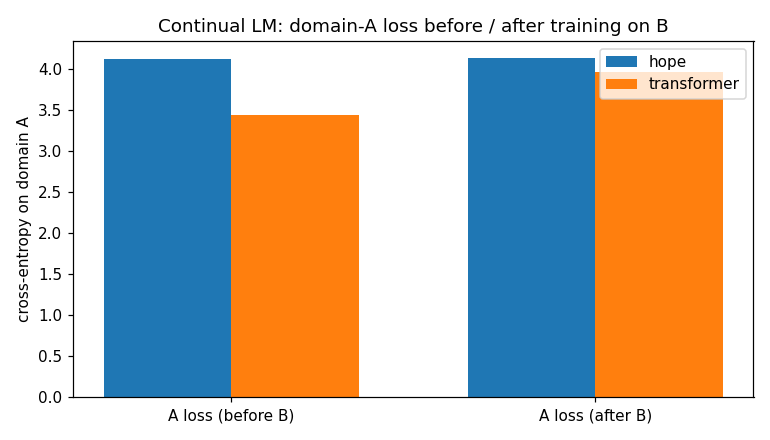
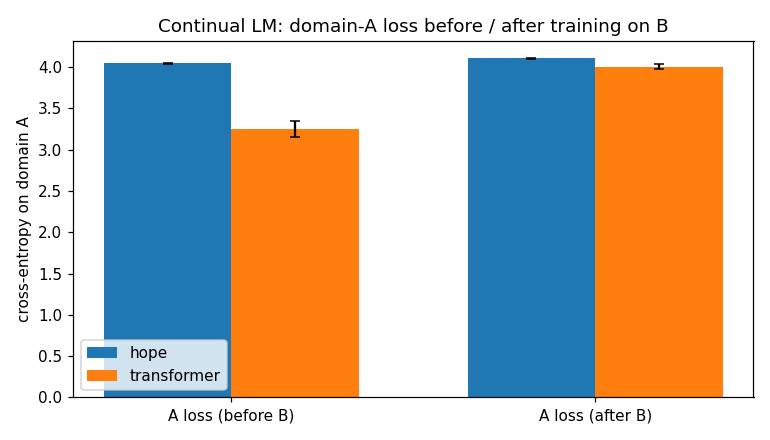
benchmark: seed-averaged plots, random baseline, raw JSON dump
scripts/benchmark.py:
- add --n-seeds (default 3) so longctx and continual no longer report
  a single-seed point; each scenario reruns from scratch per seed with
  a deterministic _set_seed(seed) helper covering python random / numpy
  / tf.random.
- longctx and continual plots switch to mean+std error bars across
  seeds (matplotlib errorbar / bar yerr).
- longctx and incontext plots add a horizontal random-baseline line at
  1/vocab so a reader can tell at a glance when a curve is above
  chance. continual is cross-entropy across heterogeneous vocab/data
  scales, so no clean baseline line — skipped intentionally.
- next to each PNG, dump the per-seed (or per-trial) raw numbers as
  bench_*.json. Plots can lie; raw JSON cannot.

Regenerate assets/bench_{longctx,continual,incontext}.{png,json} with
--n-seeds 3 on the default benchmark CLI args.

diff --git a/scripts/benchmark.py b/scripts/benchmark.py
@@ -18,6 +18,7 @@ direction, not headline numbers.
 from __future__ import annotations
 
 import argparse
+import json
 import os
 import sys
 
@@ -37,6 +38,11 @@ from scripts.download_data import get_tinyshakespeare  # noqa: E402
 
 ASSETS_DIR = os.path.join(_REPO_ROOT, "assets")
 os.makedirs(ASSETS_DIR, exist_ok=True)
+
+
+def _set_seed(seed: int) -> None:
+    import random
+    random.seed(seed); np.random.seed(seed); tf.random.set_seed(seed)
 
 
 def _build_hope(vocab: int, seq_len: int, d_model: int, n_heads: int) -> HOPE:
@@ -93,50 +99,61 @@ def scenario_longctx(args) -> dict:
     recall position. Softer than argmax accuracy so the comparison is
     visible on a tiny CPU-friendly training budget.
     """
-    rng = np.random.default_rng(0)
     vocab = 8
     n_heads = 2
     d_model = 32
 
-    results: dict[str, dict[int, float]] = {"hope": {}, "transformer": {}}
-    for seq_len in args.longctx_seq_lens:
-        B = args.batch_size
-        key_id = int(rng.integers(1, 4))
-        val_id = int(rng.integers(4, vocab))
-        x = rng.integers(0, 4, size=(B, seq_len), dtype=np.int32)
-        x[:, 0] = key_id
-        x[:, 1] = val_id
-        x[:, -2] = key_id
-        x[:, -1] = val_id
-        x_t = tf.constant(x, dtype=tf.int32)
-        y_t = x_t
+    # prob_correct_per_seed[name][seq_len] = [seed0_result, seed1_result, ...]
+    prob_correct_per_seed: dict[str, dict[int, list[float]]] = {
+        "hope": {sl: [] for sl in args.longctx_seq_lens},
+        "transformer": {sl: [] for sl in args.longctx_seq_lens},
+    }
 
-        for name in ("hope", "transformer"):
-            if name == "hope":
-                model = _build_hope(vocab, seq_len, d_model, n_heads)
-            else:
-                ref = _build_hope(vocab, seq_len, d_model, n_heads)
-                model = _build_matched_baseline(ref)
-            _ = model(tf.zeros((1, seq_len), dtype=tf.int32))
-            opt = tf.keras.optimizers.Adam(args.lr)
-            for _ in range(args.longctx_train_steps):
-                with tf.GradientTape() as tape:
-                    logits = model(x_t)
-                    loss = _ce_loss(logits, y_t)
-                grads = tape.gradient(loss, model.trainable_variables)
-                opt.apply_gradients(zip(grads, model.trainable_variables))
-            logits = model(x_t)
-            probs = tf.nn.softmax(logits[:, -2, :], axis=-1).numpy()
-            prob_correct = float(np.mean(probs[:, val_id]))
-            results[name][seq_len] = prob_correct
-            print(
-                f"[longctx] seq_len={seq_len} {name}: P(val_id)={prob_correct:.3f}"
-            )
+    for seed in range(args.n_seeds):
+        _set_seed(seed)
+        rng = np.random.default_rng(seed)
+        for seq_len in args.longctx_seq_lens:
+            B = args.batch_size
+            key_id = int(rng.integers(1, 4))
+            val_id = int(rng.integers(4, vocab))
+            x = rng.integers(0, 4, size=(B, seq_len), dtype=np.int32)
+            x[:, 0] = key_id
+            x[:, 1] = val_id
+            x[:, -2] = key_id
+            x[:, -1] = val_id
+            x_t = tf.constant(x, dtype=tf.int32)
+            y_t = x_t
+
+            for name in ("hope", "transformer"):
+                if name == "hope":
+                    model = _build_hope(vocab, seq_len, d_model, n_heads)
+                else:
+                    ref = _build_hope(vocab, seq_len, d_model, n_heads)
+                    model = _build_matched_baseline(ref)
+                _ = model(tf.zeros((1, seq_len), dtype=tf.int32))
+                opt = tf.keras.optimizers.Adam(args.lr)
+                for _ in range(args.longctx_train_steps):
+                    with tf.GradientTape() as tape:
+                        logits = model(x_t)
+                        loss = _ce_loss(logits, y_t)
+                    grads = tape.gradient(loss, model.trainable_variables)
+                    opt.apply_gradients(zip(grads, model.trainable_variables))
+                logits = model(x_t)
+                probs = tf.nn.softmax(logits[:, -2, :], axis=-1).numpy()
+                prob_correct = float(np.mean(probs[:, val_id]))
+                prob_correct_per_seed[name][seq_len].append(prob_correct)
+                print(
+                    f"[longctx] seed={seed} seq_len={seq_len} {name}: P(val_id)={prob_correct:.3f}"
+                )
 
     fig, ax = plt.subplots(figsize=(7, 4))
     sls = sorted(args.longctx_seq_lens)
     for name in ("hope", "transformer"):
-        ax.plot(sls, [results[name][s] for s in sls], marker="o", label=name)
+        means = np.array([np.mean(prob_correct_per_seed[name][sl]) for sl in sls])
+        stds = np.array([np.std(prob_correct_per_seed[name][sl]) for sl in sls])
+        ax.errorbar(sls, means, yerr=stds, marker="o", label=name, capsize=3)
+    ax.axhline(1.0 / vocab, linestyle="--", color="gray", alpha=0.6,
+               label=f"random (1/vocab={1.0/vocab:.3f})")
     ax.set_xlabel("sequence length")
     ax.set_ylabel("P(val_id | context) at recall position")
     ax.set_title("Long-context retrieval (synthetic key/value)")
@@ -146,43 +163,79 @@ def scenario_longctx(args) -> dict:
     out = os.path.join(ASSETS_DIR, "bench_longctx.png")
     fig.savefig(out, dpi=110)
     plt.close(fig)
-    print(f"[longctx] saved {out}")
-    return results
+
+    payload = {
+        "vocab": vocab,
+        "n_seeds": args.n_seeds,
+        "results": {
+            name: {str(sl): prob_correct_per_seed[name][sl] for sl in args.longctx_seq_lens}
+            for name in ("hope", "transformer")
+        },
+        "random_baseline": 1.0 / vocab,
+    }
+    json_out = os.path.join(ASSETS_DIR, "bench_longctx.json")
+    with open(json_out, "w") as f:
+        json.dump(payload, f, indent=2)
+
+    print(f"[longctx] saved bench_longctx.png + bench_longctx.json (n_seeds={args.n_seeds})")
+    return prob_correct_per_seed
 
 
 def scenario_continual(args) -> dict:
     """Train on domain A (TinyShakespeare), then B (random), re-eval A."""
     ds_a, vocab_a = get_tinyshakespeare(seq_len=args.seq_len, batch_size=args.batch_size)
-    rng = np.random.default_rng(0)
-    n_samples = args.steps * args.batch_size
-    b_data = rng.integers(0, vocab_a, size=(n_samples, args.seq_len + 1)).astype(np.int32)
-    ds_b = tf.data.Dataset.from_tensor_slices(tf.constant(b_data))
-    ds_b = ds_b.map(lambda c: (c[:-1], c[1:])).batch(args.batch_size, drop_remainder=True)
-
     n_heads = 2
     d_model = 32
-    results: dict[str, tuple[float, float]] = {}
-    for name in ("hope", "transformer"):
-        if name == "hope":
-            model = _build_hope(vocab_a, args.seq_len, d_model, n_heads)
-        else:
-            ref = _build_hope(vocab_a, args.seq_len, d_model, n_heads)
-            model = _build_matched_baseline(ref)
-        _ = model(tf.zeros((1, args.seq_len), dtype=tf.int32))
-        _train_on_batches(model, ds_a, args.steps, args.lr)
-        loss_a_before_b = _eval_mean_loss(model, ds_a, max_batches=5)
-        _train_on_batches(model, ds_b, args.steps, args.lr)
-        loss_a_after_b = _eval_mean_loss(model, ds_a, max_batches=5)
-        results[name] = (loss_a_before_b, loss_a_after_b)
-        print(
-            f"[continual] {name}: lossA before={loss_a_before_b:.3f} after={loss_a_after_b:.3f}"
-        )
+
+    # loss_pairs_per_seed[name] = [(before_seed0, after_seed0), ...]
+    loss_pairs_per_seed: dict[str, list[tuple[float, float]]] = {
+        "hope": [],
+        "transformer": [],
+    }
+
+    for seed in range(args.n_seeds):
+        _set_seed(seed)
+        rng = np.random.default_rng(seed)
+        n_samples = args.steps * args.batch_size
+        b_data = rng.integers(0, vocab_a, size=(n_samples, args.seq_len + 1)).astype(np.int32)
+        ds_b = tf.data.Dataset.from_tensor_slices(tf.constant(b_data))
+        ds_b = ds_b.map(lambda c: (c[:-1], c[1:])).batch(args.batch_size, drop_remainder=True)
+
+        for name in ("hope", "transformer"):
+            if name == "hope":
+                model = _build_hope(vocab_a, args.seq_len, d_model, n_heads)
+            else:
+                ref = _build_hope(vocab_a, args.seq_len, d_model, n_heads)
+                model = _build_matched_baseline(ref)
+            _ = model(tf.zeros((1, args.seq_len), dtype=tf.int32))
+            _train_on_batches(model, ds_a, args.steps, args.lr)
+            loss_a_before_b = _eval_mean_loss(model, ds_a, max_batches=5)
+            _train_on_batches(model, ds_b, args.steps, args.lr)
+            loss_a_after_b = _eval_mean_loss(model, ds_a, max_batches=5)
+            loss_pairs_per_seed[name].append((loss_a_before_b, loss_a_after_b))
+            print(
+                f"[continual] seed={seed} {name}: lossA before={loss_a_before_b:.3f} after={loss_a_after_b:.3f}"
+            )
 
     fig, ax = plt.subplots(figsize=(7, 4))
     x_axis = np.arange(2)
     width = 0.35
-    ax.bar(x_axis - width / 2, results["hope"], width, label="hope")
-    ax.bar(x_axis + width / 2, results["transformer"], width, label="transformer")
+    for name, offset in (("hope", -width / 2), ("transformer", width / 2)):
+        pairs = loss_pairs_per_seed[name]
+        befores = [p[0] for p in pairs]
+        afters = [p[1] for p in pairs]
+        mean_before = float(np.mean(befores))
+        mean_after = float(np.mean(afters))
+        std_before = float(np.std(befores))
+        std_after = float(np.std(afters))
+        ax.bar(
+            x_axis + offset,
+            [mean_before, mean_after],
+            width,
+            yerr=[std_before, std_after],
+            capsize=3,
+            label=name,
+        )
     ax.set_xticks(x_axis)
     ax.set_xticklabels(["A loss (before B)", "A loss (after B)"])
     ax.set_ylabel("cross-entropy on domain A")
@@ -192,8 +245,23 @@ def scenario_continual(args) -> dict:
     out = os.path.join(ASSETS_DIR, "bench_continual.png")
     fig.savefig(out, dpi=110)
     plt.close(fig)
-    print(f"[continual] saved {out}")
-    return results
+
+    payload = {
+        "n_seeds": args.n_seeds,
+        "results": {
+            name: [
+                {"before": p[0], "after": p[1]}
+                for p in loss_pairs_per_seed[name]
+            ]
+            for name in ("hope", "transformer")
+        },
+    }
+    json_out = os.path.join(ASSETS_DIR, "bench_continual.json")
+    with open(json_out, "w") as f:
+        json.dump(payload, f, indent=2)
+
+    print(f"[continual] saved bench_continual.png + bench_continual.json (n_seeds={args.n_seeds})")
+    return loss_pairs_per_seed
 
 
 def scenario_incontext(args) -> dict:
@@ -210,6 +278,10 @@ def scenario_incontext(args) -> dict:
     n_trials = int(args.incontext_trials)
 
     results: dict[str, dict[int, float]] = {"hope": {}, "transformer": {}}
+    per_trial_raw: dict[str, dict[int, list[float]]] = {
+        "hope": {k: [] for k in shots},
+        "transformer": {k: [] for k in shots},
+    }
     for k in shots:
         per_trial: dict[str, list[float]] = {"hope": [], "transformer": []}
         for trial in range(n_trials):
@@ -246,7 +318,9 @@ def scenario_incontext(args) -> dict:
                     opt.apply_gradients(zip(grads, model.trainable_variables))
                 logits = model(x_t)
                 pred_at_q = int(tf.argmax(logits[0, T - 2, :]).numpy())
-                per_trial[name].append(1.0 if pred_at_q == int(perm[q]) else 0.0)
+                result = 1.0 if pred_at_q == int(perm[q]) else 0.0
+                per_trial[name].append(result)
+                per_trial_raw[name][k].append(result)
 
         for name in ("hope", "transformer"):
             mean_acc = float(np.mean(per_trial[name]))
@@ -258,6 +332,8 @@ def scenario_incontext(args) -> dict:
     fig, ax = plt.subplots(figsize=(7, 4))
     for name in ("hope", "transformer"):
         ax.plot(shots, [results[name][k] for k in shots], marker="o", label=name)
+    ax.axhline(1.0 / vocab, linestyle="--", color="gray", alpha=0.6,
+               label=f"random (1/vocab={1.0/vocab:.3f})")
     ax.set_xlabel("number of shots k")
     ax.set_ylabel("next-token correct (1 = yes, 0 = no)")
     ax.set_title("In-context adaptation (random char substitution)")
@@ -267,7 +343,21 @@ def scenario_incontext(args) -> dict:
     out = os.path.join(ASSETS_DIR, "bench_incontext.png")
     fig.savefig(out, dpi=110)
     plt.close(fig)
-    print(f"[incontext] saved {out}")
+
+    payload = {
+        "vocab": vocab,
+        "n_trials": n_trials,
+        "results": {
+            name: {str(k): per_trial_raw[name][k] for k in shots}
+            for name in ("hope", "transformer")
+        },
+        "random_baseline": 1.0 / vocab,
+    }
+    json_out = os.path.join(ASSETS_DIR, "bench_incontext.json")
+    with open(json_out, "w") as f:
+        json.dump(payload, f, indent=2)
+
+    print(f"[incontext] saved bench_incontext.png + bench_incontext.json (n_trials={n_trials})")
     return results
 
 
@@ -286,6 +376,8 @@ def _build_arg_parser() -> argparse.ArgumentParser:
     p.add_argument("--longctx-train-steps", type=int, default=200)
     p.add_argument("--incontext-train-steps", type=int, default=20)
     p.add_argument("--incontext-trials", type=int, default=8)
+    p.add_argument("--n-seeds", type=int, default=3,
+                   help="Seeds to average longctx and continual over (incontext already uses trials).")
     return p
 
 
